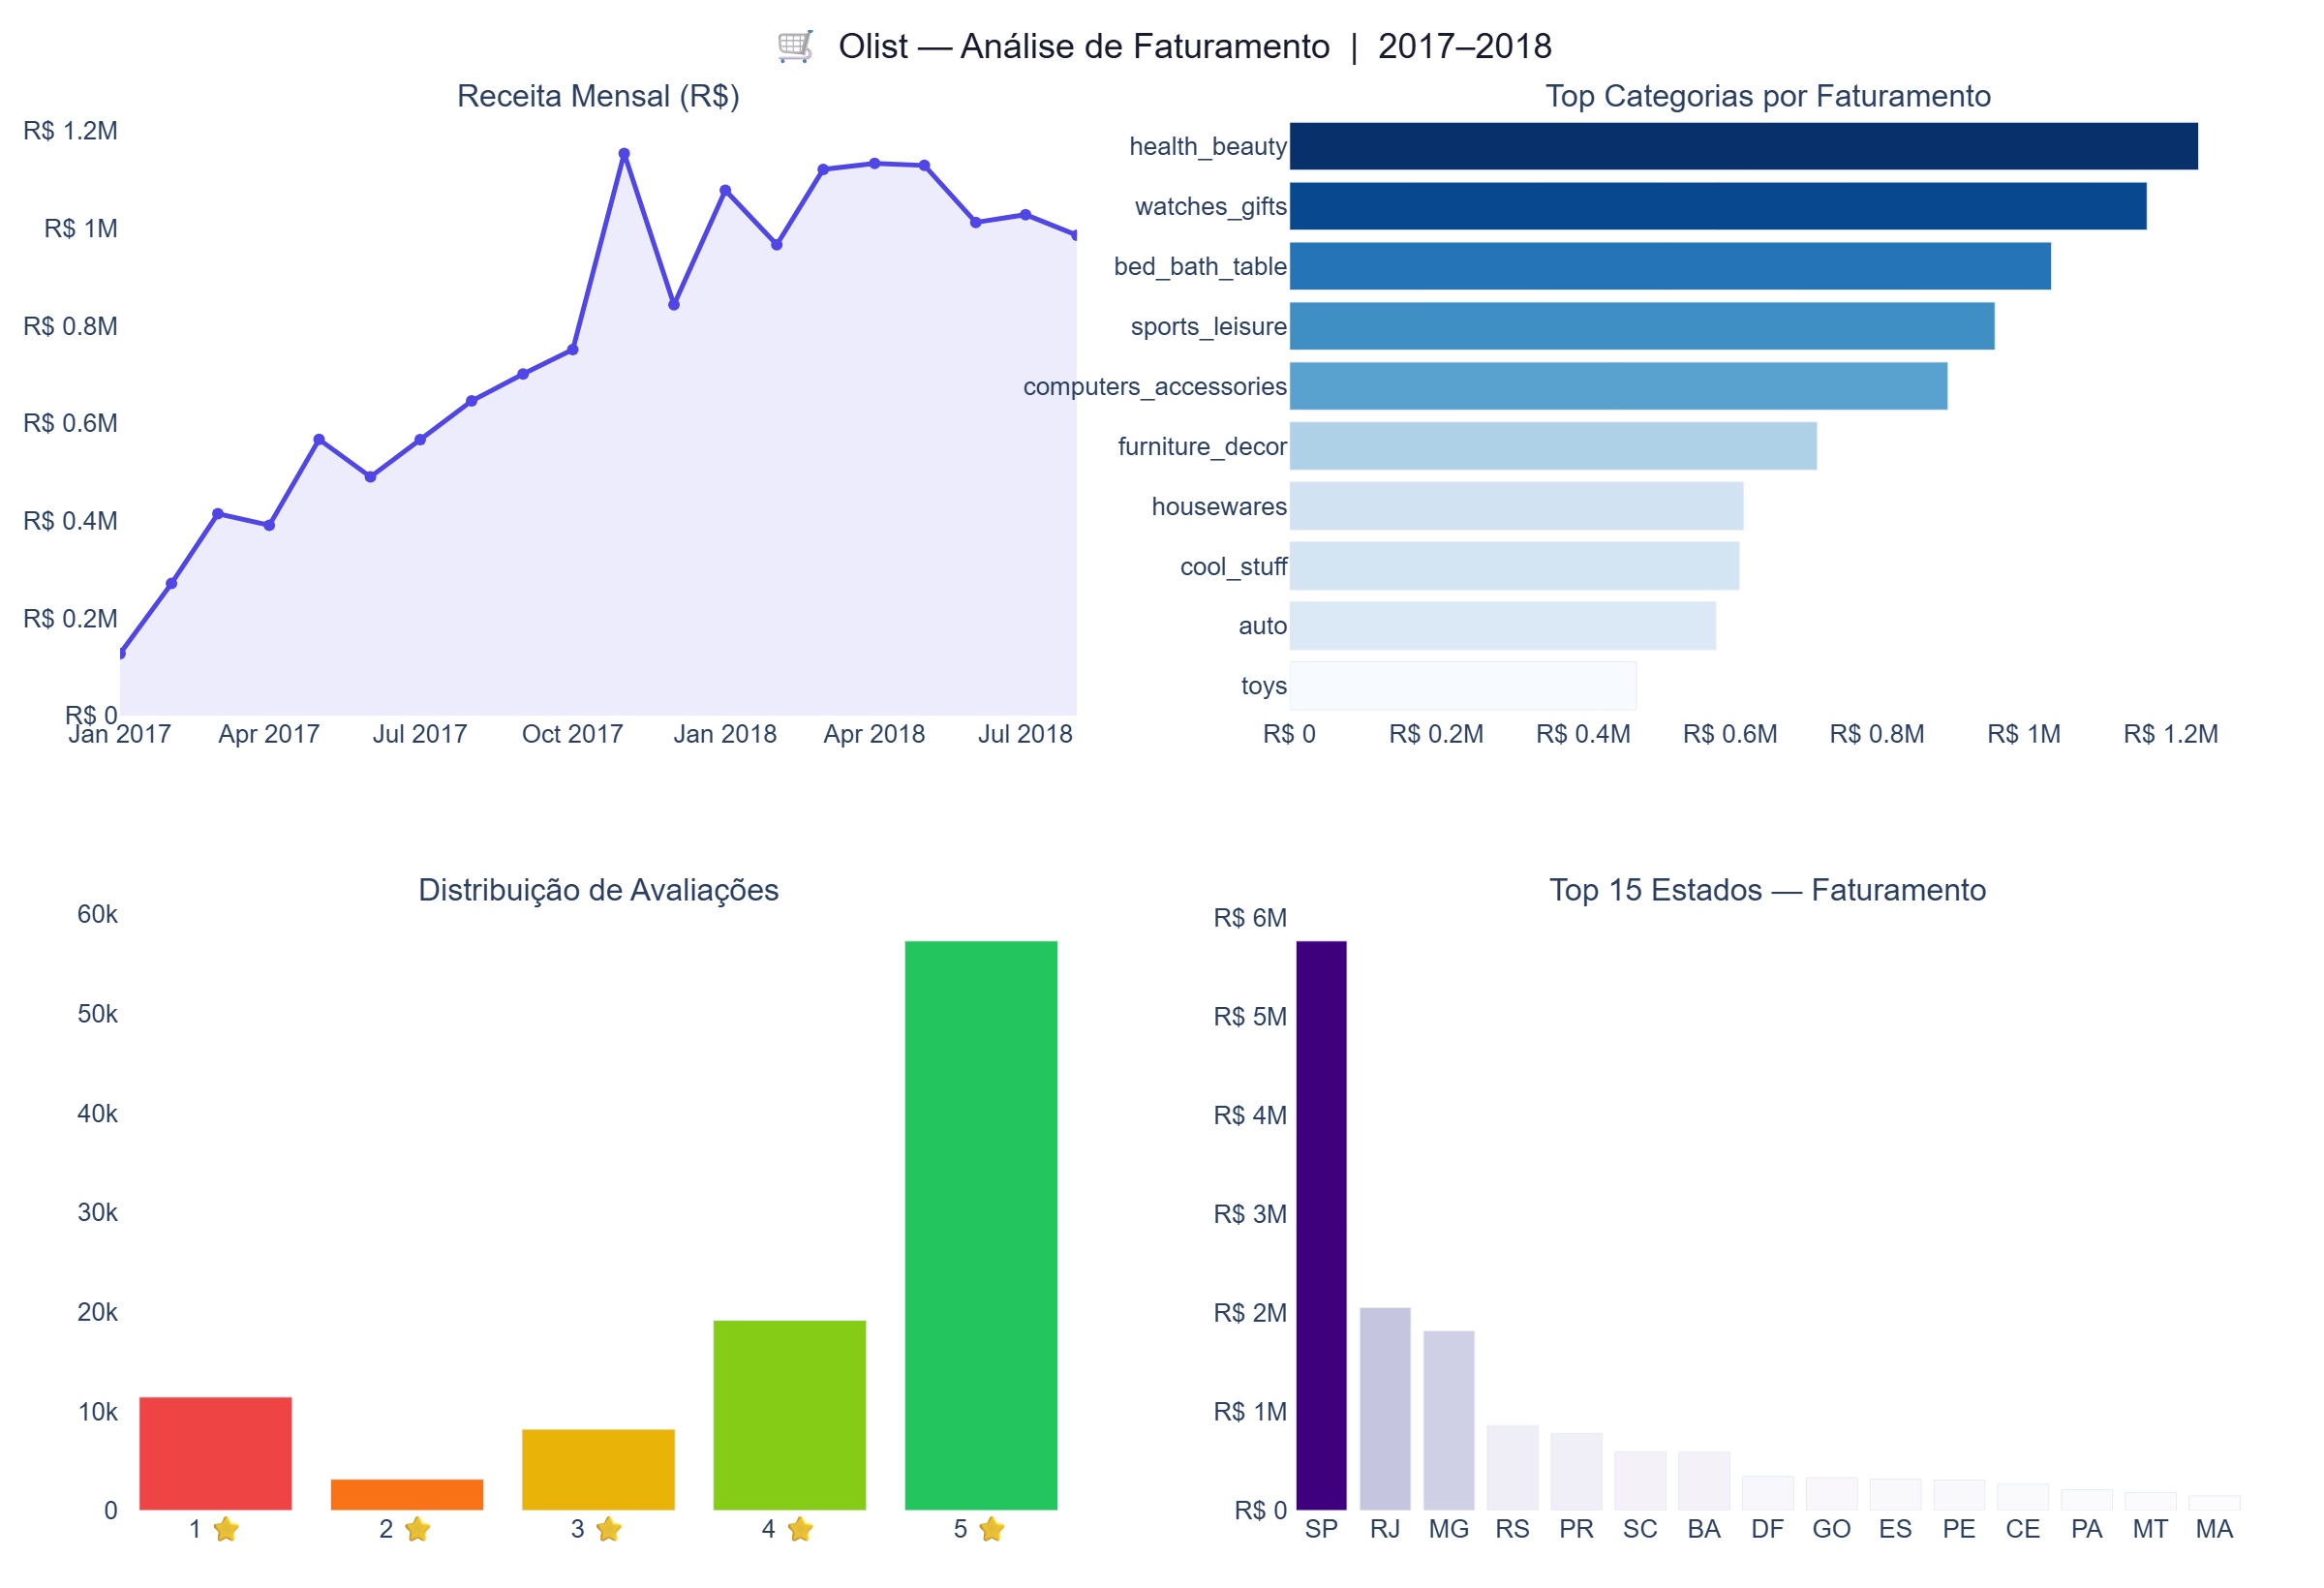
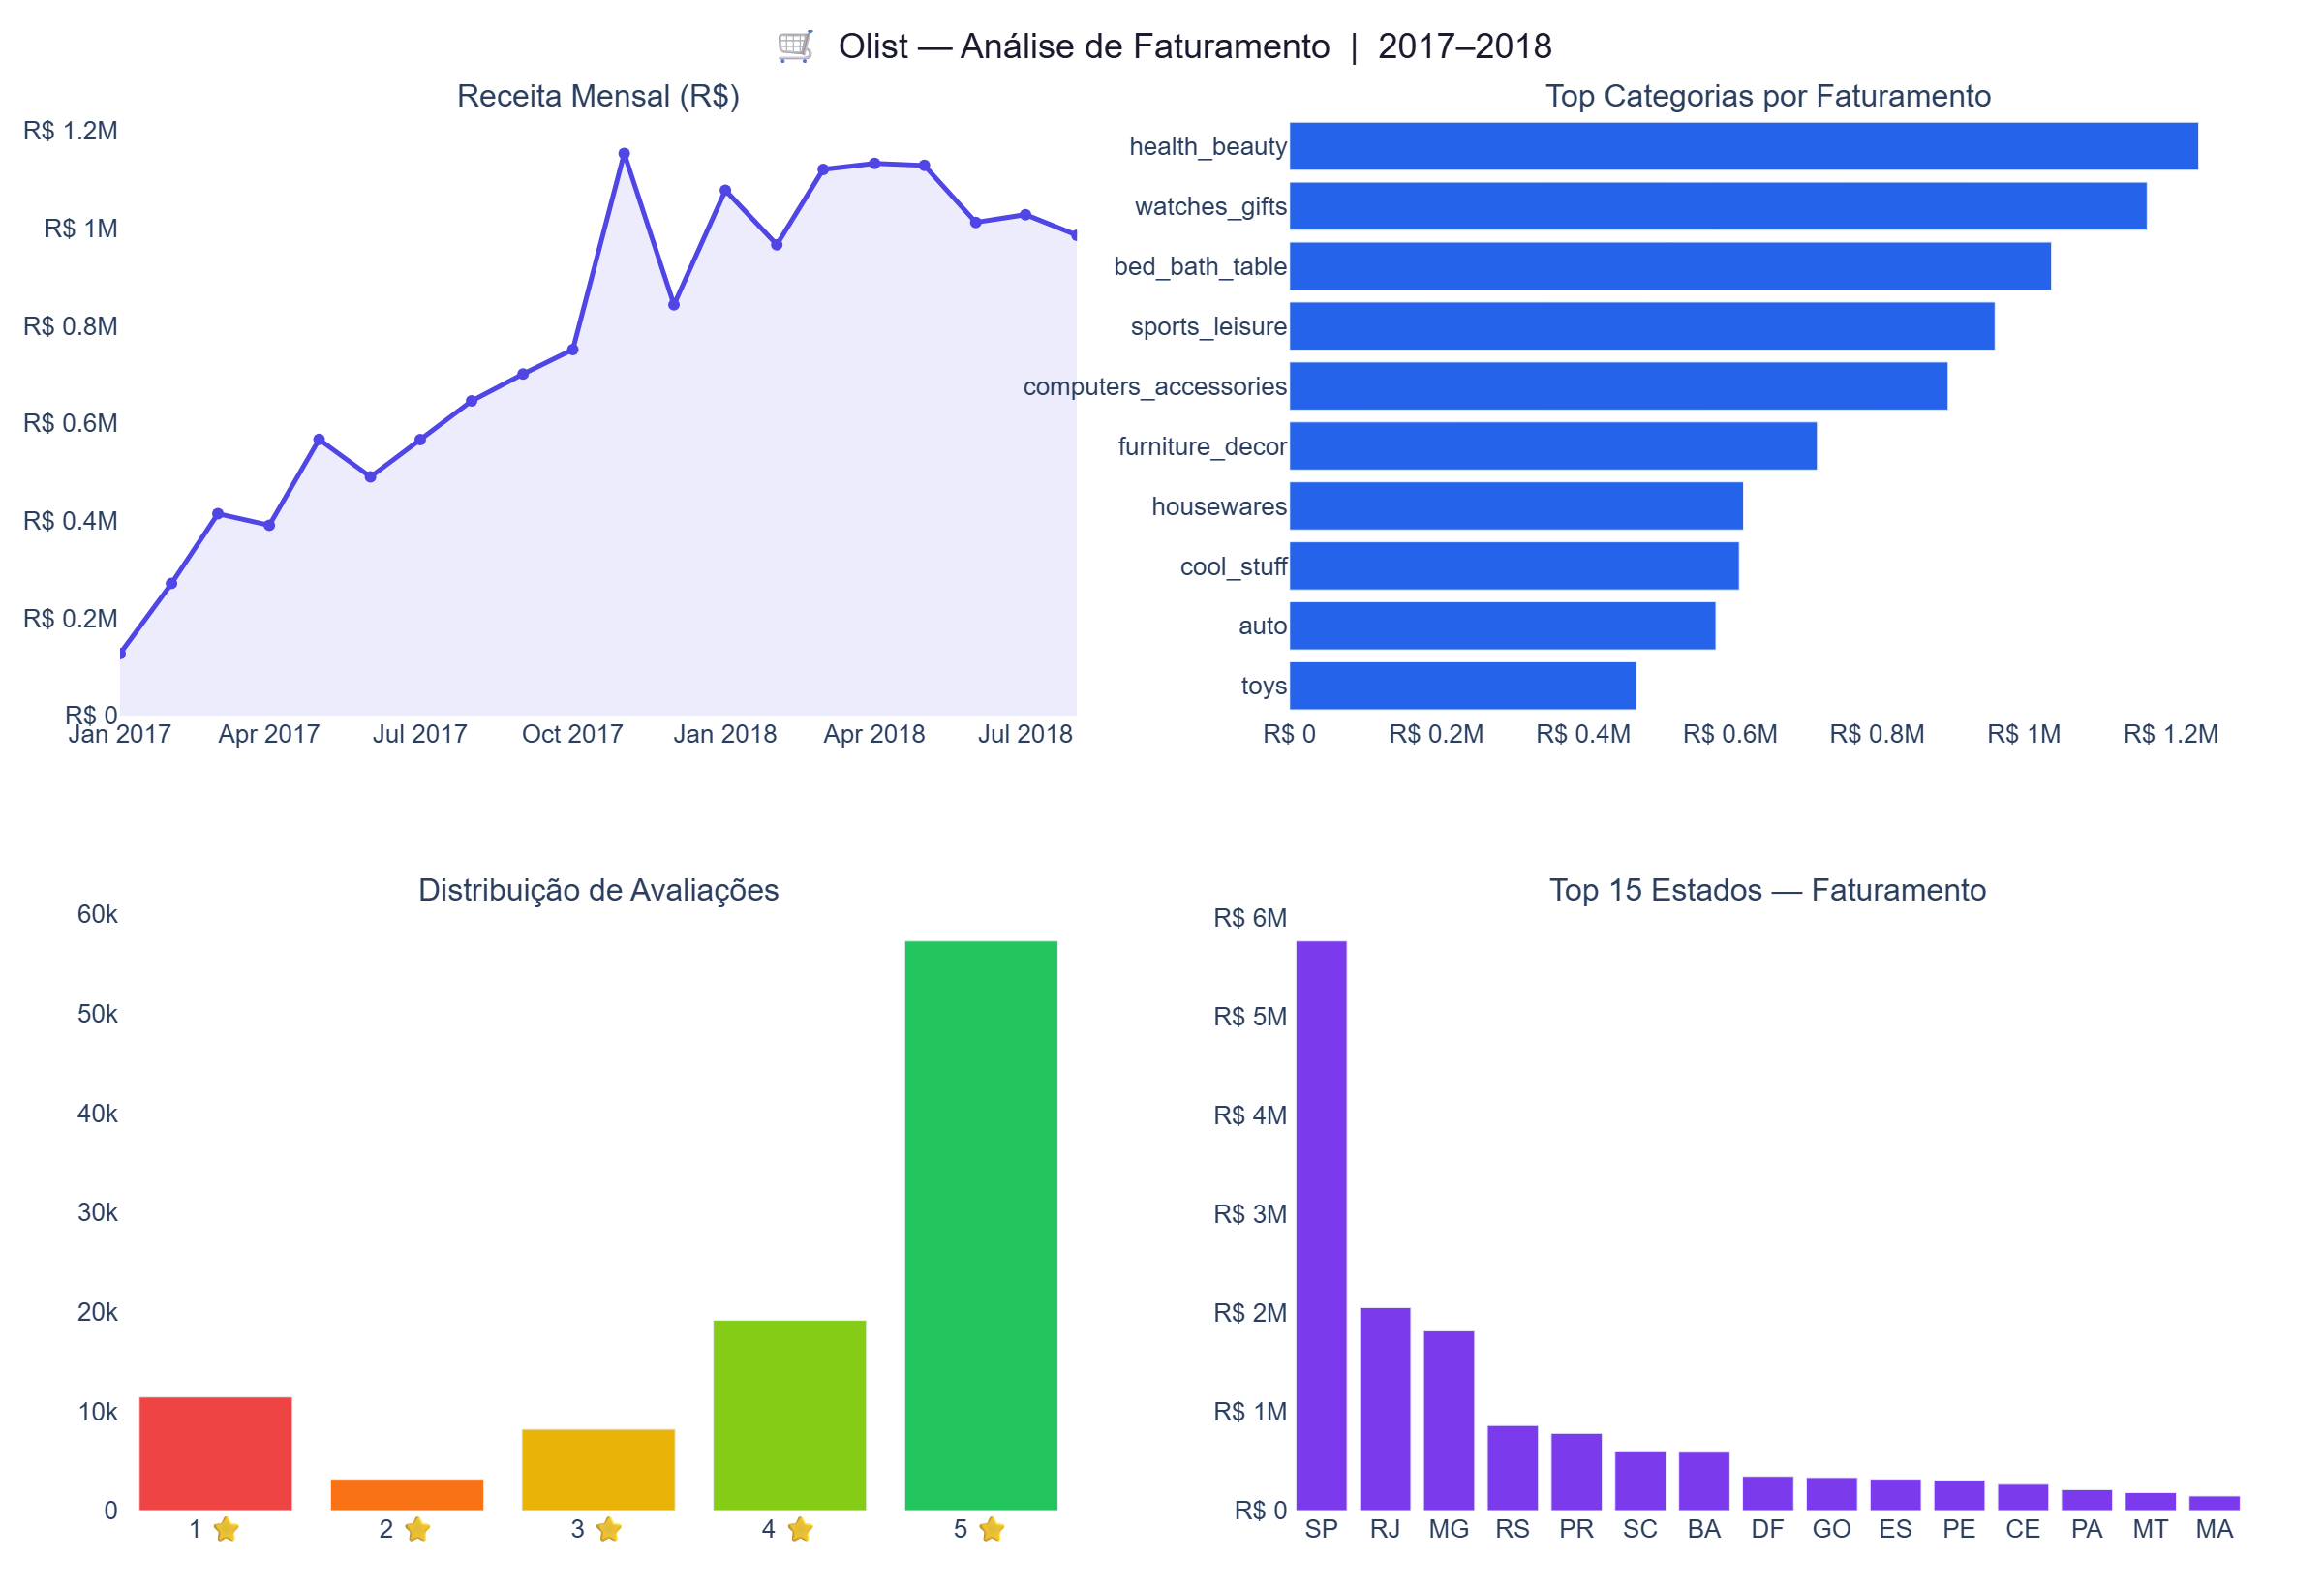
Corrige colorbar vazando no overview: troca colorscale por cor fixa

Changed region(s): [[0.5312, 0.0622, 0.9688, 0.4665], [0.5312, 0.5909, 0.9688, 0.964]]

diff --git a/generate_screenshots.py b/generate_screenshots.py
@@ -136,12 +136,12 @@ def gera_overview():
         showlegend=False,
     ), row=1, col=1)
 
-    # Categorias (horizontal bar) — showscale=False para não vazar colorbar no subplot vizinho
+    # Categorias (horizontal bar) — cor fixa, sem colorscale para evitar colorbar
     top10 = cats.head(10).sort_values('receita')
     fig.add_trace(go.Bar(
         x=top10['receita'], y=top10['categoria'],
         orientation='h',
-        marker=dict(color=top10['receita'], colorscale='Blues', showscale=False),
+        marker_color='#2563eb',
         showlegend=False,
     ), row=1, col=2)
 
@@ -154,10 +154,10 @@ def gera_overview():
         showlegend=False,
     ), row=2, col=1)
 
-    # Estados — showscale=False para não vazar colorbar
+    # Estados — cor fixa, sem colorscale
     fig.add_trace(go.Bar(
         x=estados['estado'], y=estados['receita'],
-        marker=dict(color=estados['receita'], colorscale='Purples', showscale=False),
+        marker_color='#7c3aed',
         showlegend=False,
     ), row=2, col=2)
 